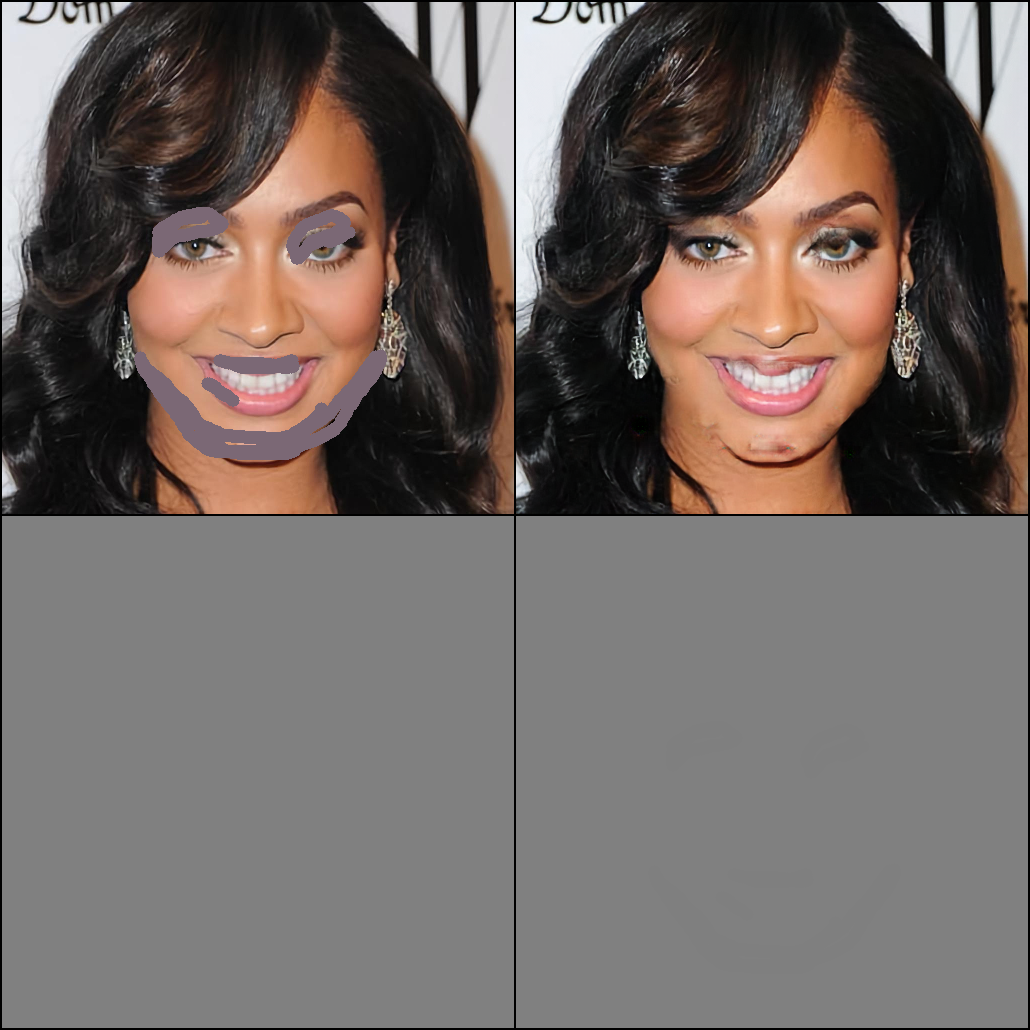
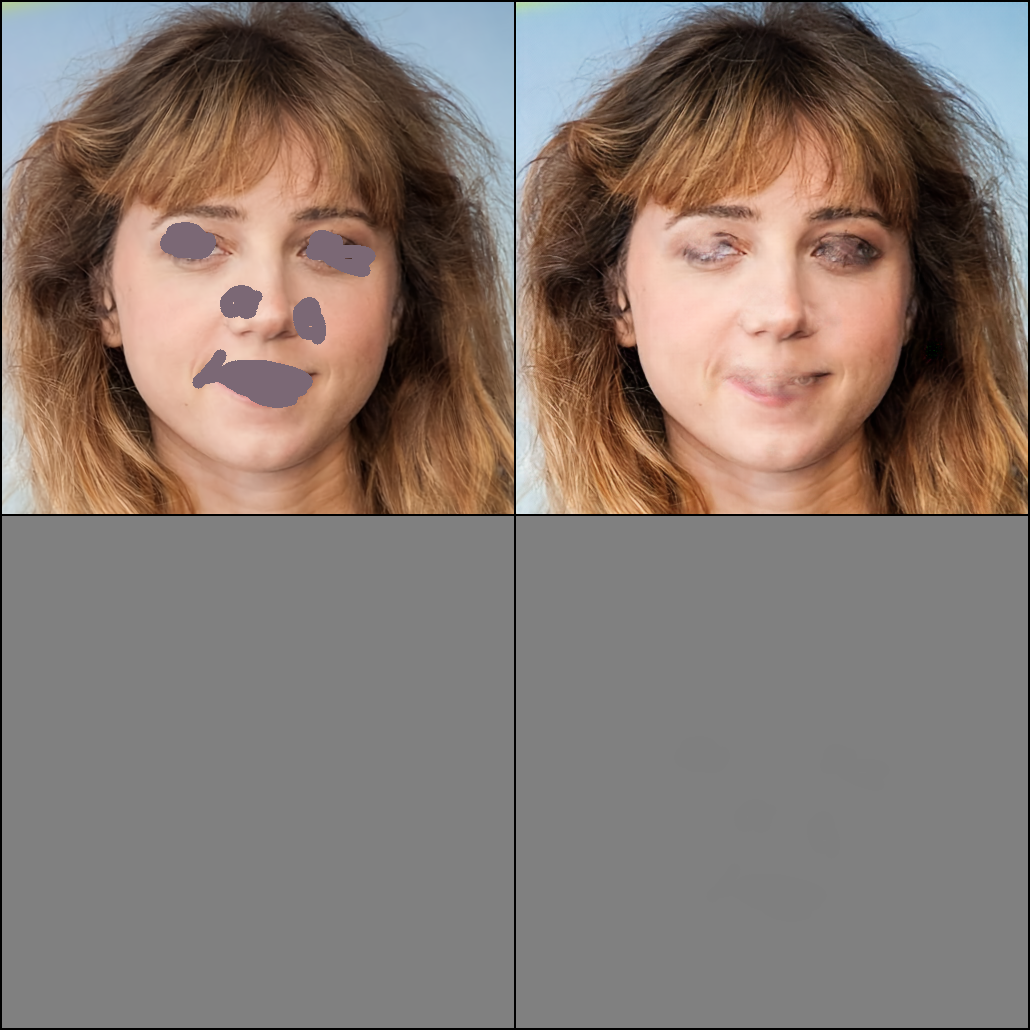
성형 이미지 생성될때마다 새롭게 보여주는 것 됨 MySQL 컨테이너 로컬디렉토리에 사진원본과 성형사진을 저장하고 그 MySQL 컨테이너 디렉토리의 경로가 DB에 저장되야함

diff --git a/B206-python-repo/main.py b/B206-python-repo/main.py
@@ -6,7 +6,7 @@ import json
 from config.test_config import TestConfig
 from backend import Backend
 from model.SingletonModel import SingletonModel
-
+import uuid
 
 from model.models import create_model
 app = FastAPI();
@@ -63,12 +63,18 @@ async def sketch(file: UploadFile = File(...), sketch_points: str=File(...), cus
     #     for name in os.listdir(saveDir):
     #         file_path = os.path.join(saveDir, name)
     #         os.remove(file_path)
+    filename = f"{uuid.uuid4()}.png"
+    print("savePath: ", os.path.join(saveDir,filename))
+    backend.save_img(os.path.join(saveDir,filename))
 
-    print("savePath: ", os.path.join(saveDir,file.filename))
-    backend.save_img(os.path.join(saveDir,file.filename))
+    # MySQL DB에 저장해야함
+    # MySQL DB에 사진원본에 원본의 경로, 사진복사본에 성형된 사진의 경로 저장되야함
+    # 단 여기서 경로는 MySQL이 돌아가는 컨테이너의 로컬 경로
 
+
+    # 
     return {
-        "url":f"http://localhost:8000/save/{customerId}/{file.filename}"
+        "url":f"http://localhost:8000/save/{customerId}/{filename}"
     }
 
 @app.get("/save/{customerId}/{fileName}")
